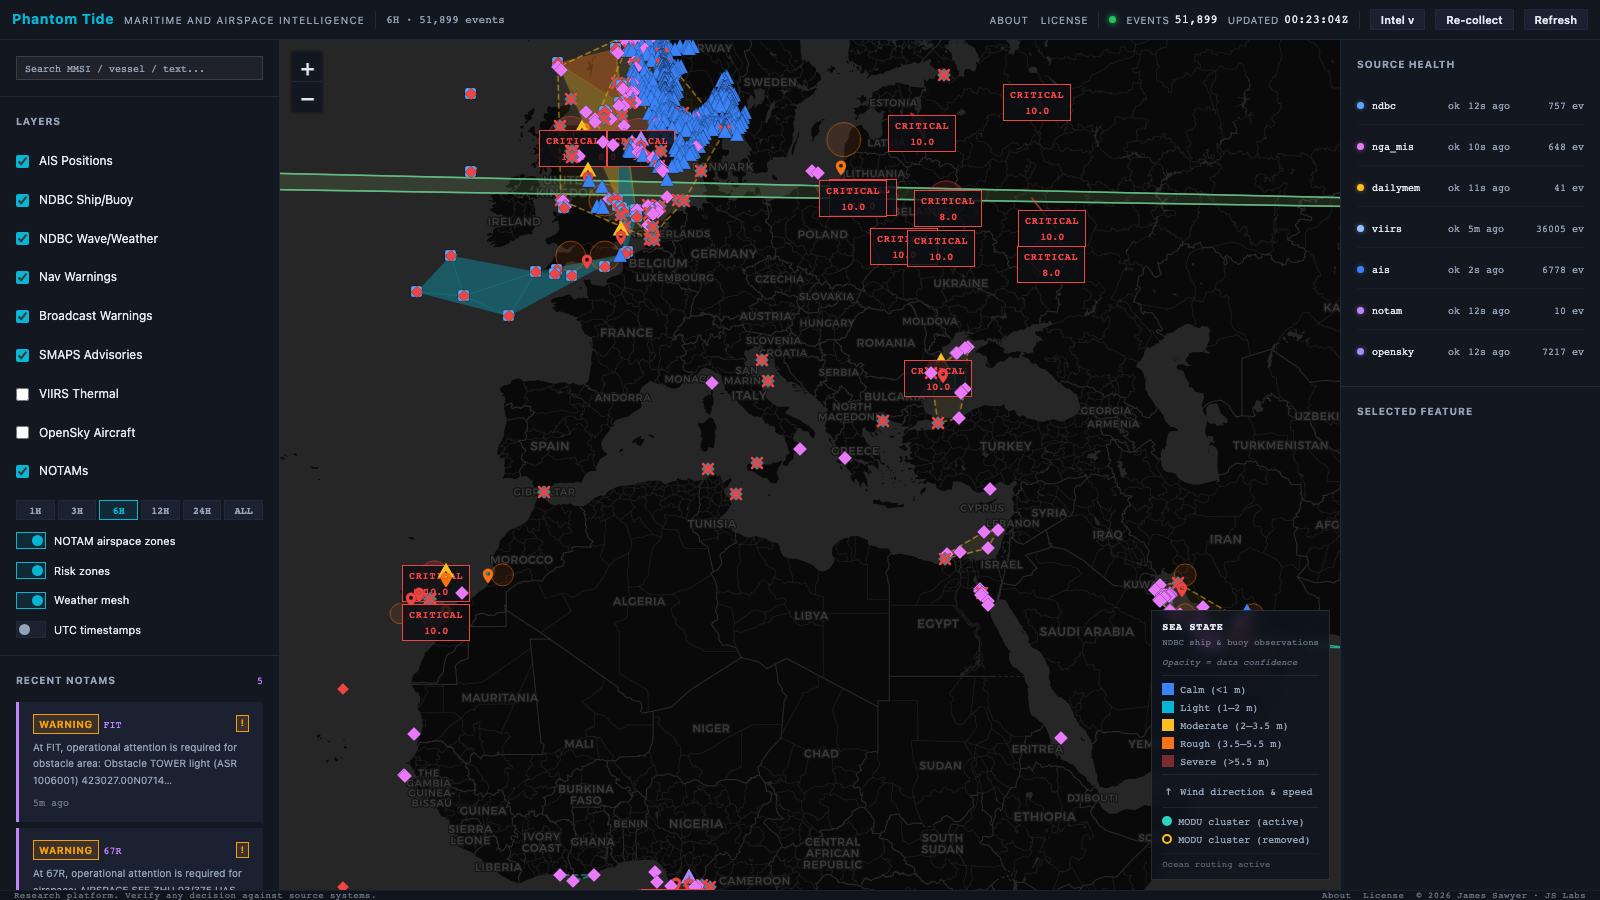
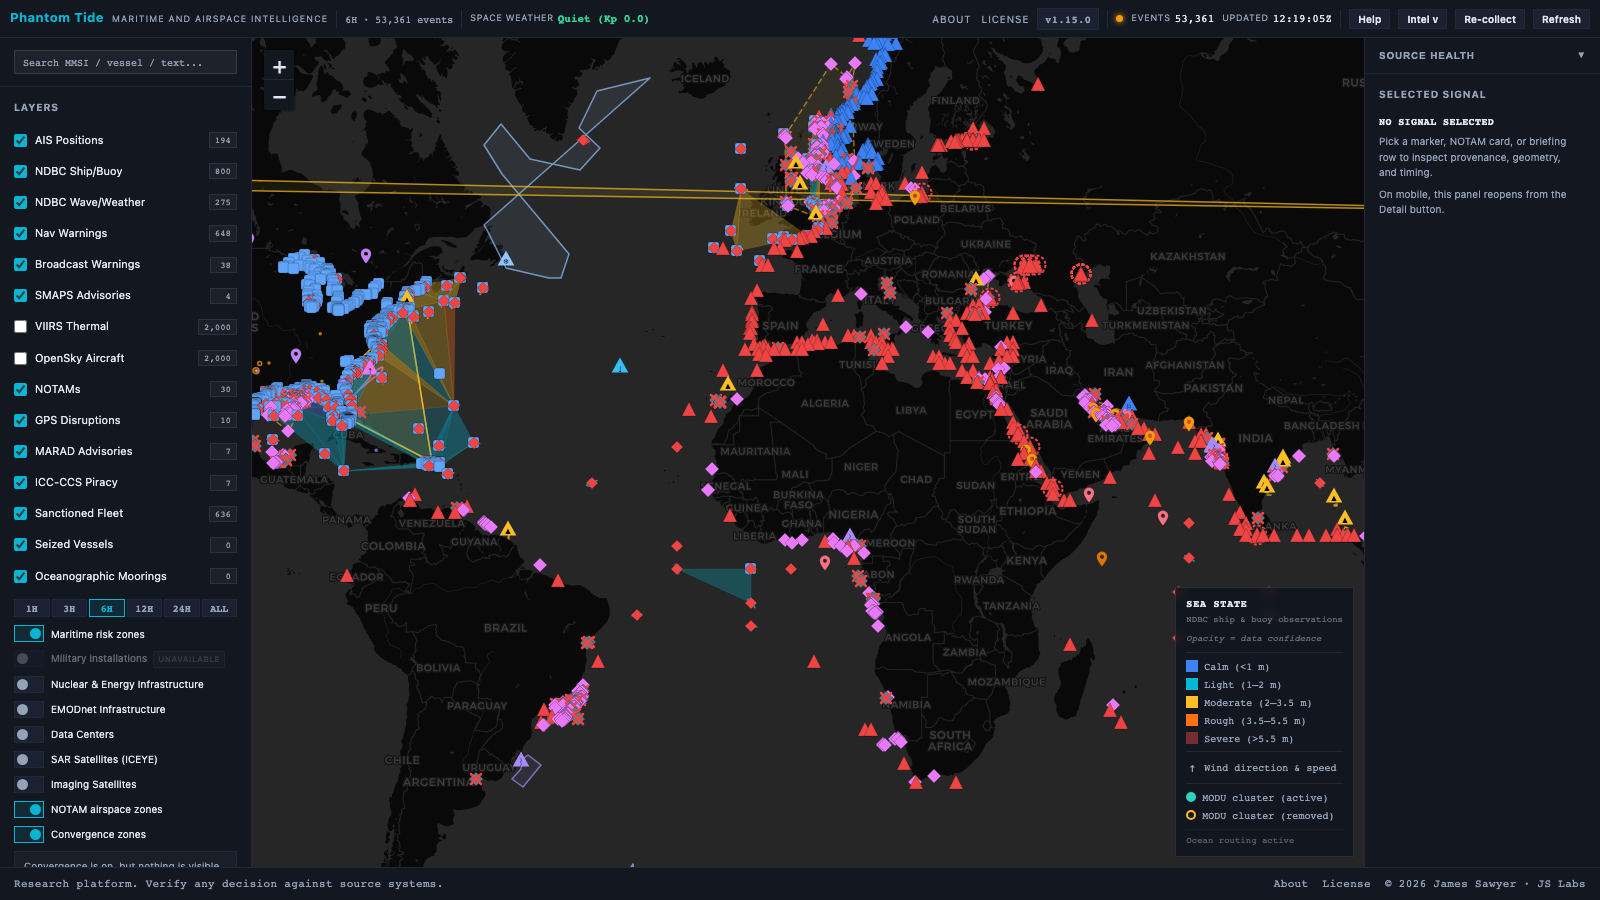
Release v.1.16

diff --git a/CHANGELOG.md b/CHANGELOG.md
@@ -6,6 +6,92 @@ Dates are UTC. Versions follow semantic versioning.
 
 ---
 
+## v1.16.0 — 2026-03-27
+
+**Seismic and weather intelligence layers, EMODnet infrastructure overlay,
+nuclear plant reference layer, and VIIRS thermal proximity alert**
+
+This release adds two new live data sources, a European infrastructure overlay,
+a nuclear facilities reference layer, and a real-time thermal anomaly alert
+system.
+
+- **USGS earthquake feed** now live. Magnitude 2.5 and above worldwide, updated
+  every 15 minutes. Events appear as violet star markers scaled by magnitude (
+  small for below M5, medium for M5–6.5, large for M6.5+). Each popup shows
+  magnitude, depth, place, tsunami flag, PAGER alert level, and a direct link
+  to the USGS event page. Significant earthquakes (M5.5+) contribute to the
+  convergence score for nearby maritime cells — undersea quakes are direct
+  context for cable cuts, tsunami advisories, and acoustic propagation
+  affecting sonar-dependent vessels.
+
+- **Environment Canada marine weather warnings** now live. 30-minute updates
+  covering the Gulf of St Lawrence, Hudson Bay, and the Canadian Arctic —
+  waters not served by NDBC. Storm and hurricane warnings weight the
+  convergence score at 2×; gale and freezing spray warnings at 1.5×. Fills the
+  northern Atlantic intelligence gap that affects Russia's shadow fleet routes
+  and Arctic shipping corridors.
+
+- **EMODnet Human Activities overlay** added as a toggleable map layer for
+  European waters. Covers submarine cables, oil and gas pipelines, and offshore
+  wind farm polygons. No backend required — tiles are served directly from
+  EMODnet's public WMS endpoint. Toggle is in the map controls panel.
+
+- **Nuclear facilities reference layer** added. Approximately 250 nuclear power
+  plants worldwide filtered from a global power plant dataset, rendered as
+  toggleable reference markers. Clearly labelled as static reference data, not
+  live monitoring.
+
+- **VIIRS thermal proximity alert** added. When a satellite thermal detection
+  (VIIRS fire or night-time light anomaly) falls within 25 km of a nuclear
+  plant, coastal datacenter, or military base in the last 5 minutes, an orange
+  alert banner appears at the top of the map. The banner shows the number of
+  detections, the nearest facility name and distance, and links directly to the
+  thermal event on the map. Updates on every refresh cycle.
+
+- Three data pipeline bugs fixed: NERACOOS collector was crashing silently on
+  every run due to an unexpected keyword argument, causing the Gulf of Maine
+  mooring layer to always fall back to cache. USGS and ECCC event counts were
+  showing as zero in the source health panel due to a misconfigured store
+  routing table. All three sources now report correctly.
+
+---
+
+## v1.15.0 — 2026-03-27
+
+**Watchlist intelligence, sanctioned fleet layer, and infrastructure hardening**
+
+This release ships the aircraft and vessel watchlist layer, the sanctioned fleet
+frontend, the maritime risk zone overlay, and infrastructure updates to the Docker
+stack.
+
+- Live aircraft positions are now cross-referenced against a 16,000-entry ICAO hex
+  registry covering military, government, police, coastguard, medevac, and other
+  tracked categories. Matched aircraft render with a pulsating red glow marker and
+  are distinguishable from ordinary air traffic at a glance.
+- A homepage alert banner appears when any tracked aircraft are currently visible,
+  showing count and registration / category. Updates on every refresh cycle.
+- AIS vessel positions cross-referenced against 92 PLAN/CCG fleet MMSIs and 12
+  notable yacht MMSIs at ingest.
+- Military installation static reference layer available in the map controls: 647
+  geocoded bases rendered as red-star markers on toggle.
+- New analyst endpoint `/api/intel/aircraft-alerts` returns all currently spotted
+  watchlist aircraft with registration, operator, category, and position.
+- Sanctioned vessel fleet map layer live. FleetLeaks vessels with a spoofing score
+  of 2 or higher display a distinct alert icon; score 1 shows a dashed border.
+  Per-vessel popup includes IMO, type, flag, AIS status, sanctioner breakdown, and
+  spoofing score with per-agency sanction dates.
+- TankerTrackers maritime risk zone overlay: 183 named polygon zones rendered as a
+  toggleable layer. Zone name appears on hover.
+- Seized vessel and Iran Navy registry rendered as a distinct map layer: orange
+  anchor icon for seized tankers, red star for Iran Navy and IRGC assets.
+- Docker stack updated: ClickHouse confirmed on latest stable GA release
+  (v26.2.5.45-stable, multi-arch). MinIO pinned to final CVE-patched release
+  following repository archive.
+- Backend scheduler refactored to a table-driven registration pattern. Startup
+  preload registry unified. All slow reference collectors now share one wrapper.
+
+---
+
 ## v1.14.0-dev — 2026-03-26
 
 **Aircraft watchlist intelligence layer**

diff --git a/README.md b/README.md
@@ -17,7 +17,7 @@ The result is a working picture that answers three questions quickly:
 2. Which sources agree, and which ones do not?
 3. How much confidence should an analyst place in that signal?
 
-Current release: **v1.14.0-dev**
+Current release: **v1.15.0**
 
 Live: [phantom.labs.jamessawyer.co.uk](https://phantom.labs.jamessawyer.co.uk)
 
@@ -209,16 +209,23 @@ Known limitations:
 
 Upcoming work already identified in the roadmap:
 
-- convergence weighting expansion and analyst-ranked queueing
-- expanded SWPC ingestion for HF blackout, X-ray flux, and magnetic-field
-  context
-- AIS spoofing detection
-- Open-Meteo or Copernicus marine weather upgrade
-- aircraft loiter analysis
-- Planefence live feed integration (SDR station perimeter alerts)
-- vessel watchlist alert table in intel panel (PLAN/CCG + yacht matches)
-- convergence scoring for tracked aircraft near maritime incidents
-- GUIDE collector hardening
+- USGS earthquake feed (undersea quakes as cable-cut and DART-anomaly context)
+- Environment Canada marine weather (fills northern Atlantic / Arctic gap)
+- CelesTrak GPS TLE enrichment (visible satellite count at disruption events, to
+  distinguish jamming from ionospheric interference)
+- EMODnet submarine cable, pipeline, and wind-farm overlays (Leaflet WMTS, no collector)
+- Open-Meteo marine weather mesh upgrade (full ocean grid at 1/4° resolution, replaces
+  sparse NDBC interpolation)
+- NWS active marine alert polygons (U.S. coastal zone context)
+- AviationWeather METAR and SIGMET collectors (weather at ports / naval bases,
+  volcanic ash and tropical cyclone polygons)
+- NDBC DART buoy anomaly detection (tsunami and underwater explosion proxy)
+- Convergence contributor breakdown — drill down from a scored cell to the
+  evidence events that drove the score
+- Vessel-in-zone correlation using shapely point-in-polygon at API serve time
+- Vessel watchlist alert table in intel panel (PLAN/CCG and yacht matches)
+- GUIDE collector hardening — stable report-id keyed row/coordinate join
+- DMI Arctic ice chart overlay and INCOIS Indian Ocean high-wave alerts
 
 These are planned items, not implied capabilities.
 
